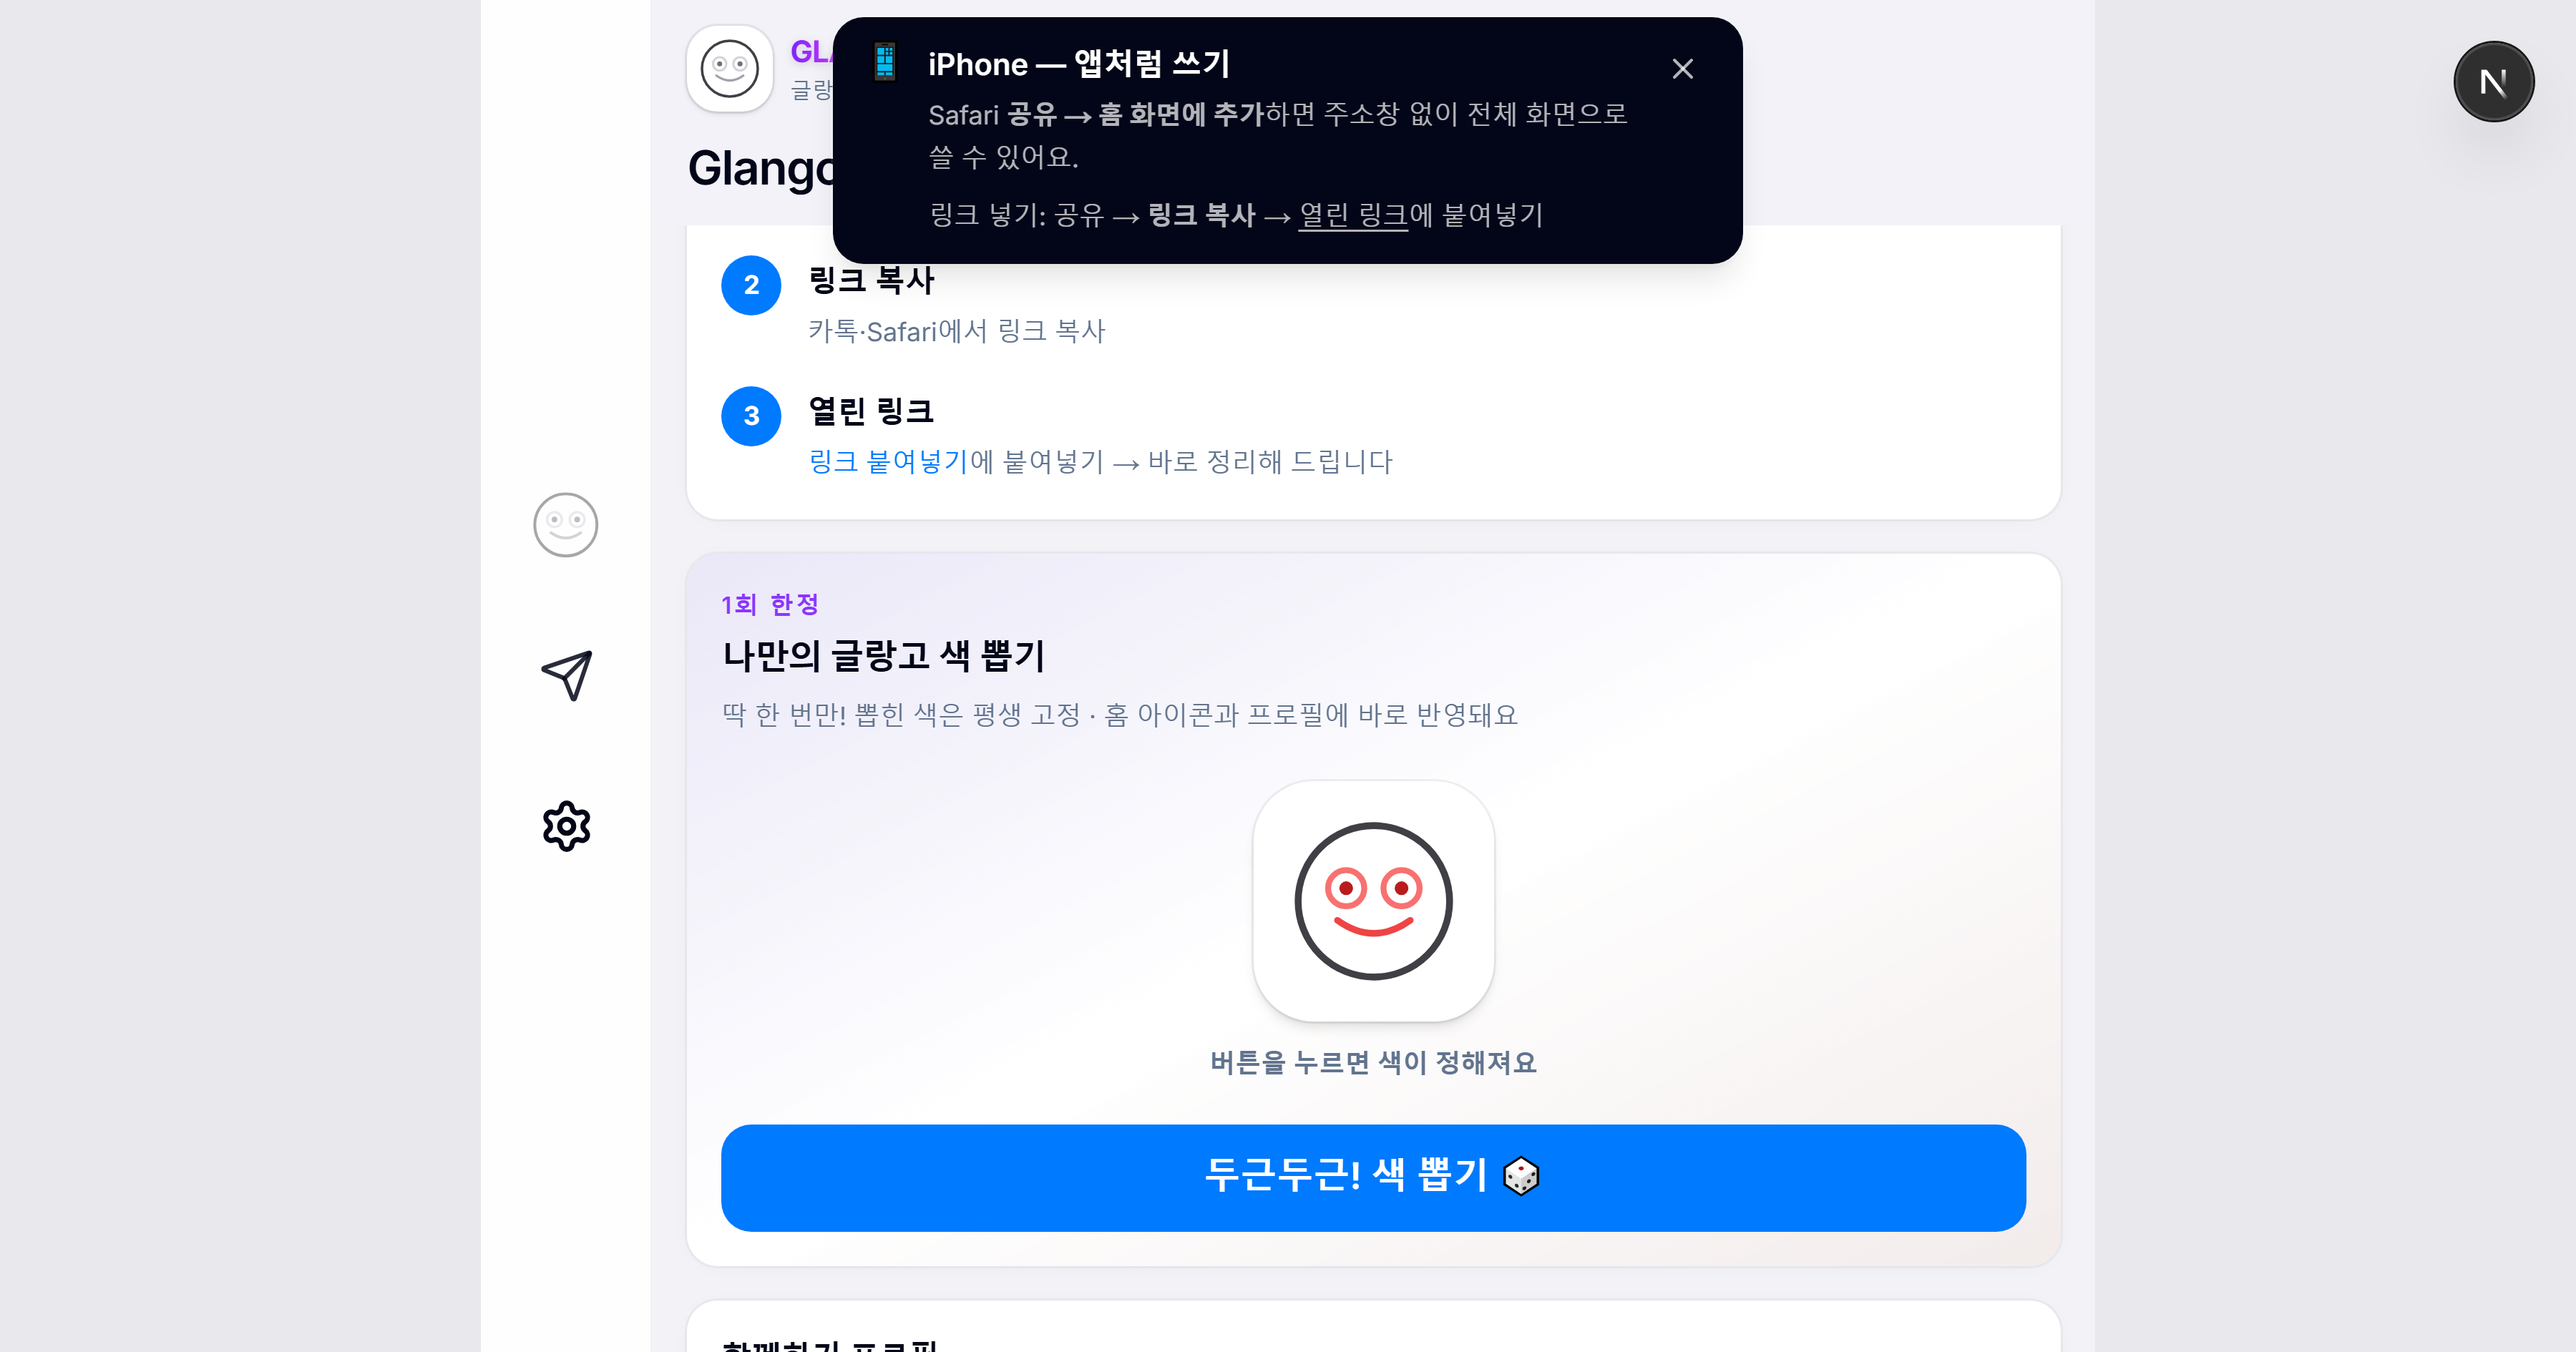
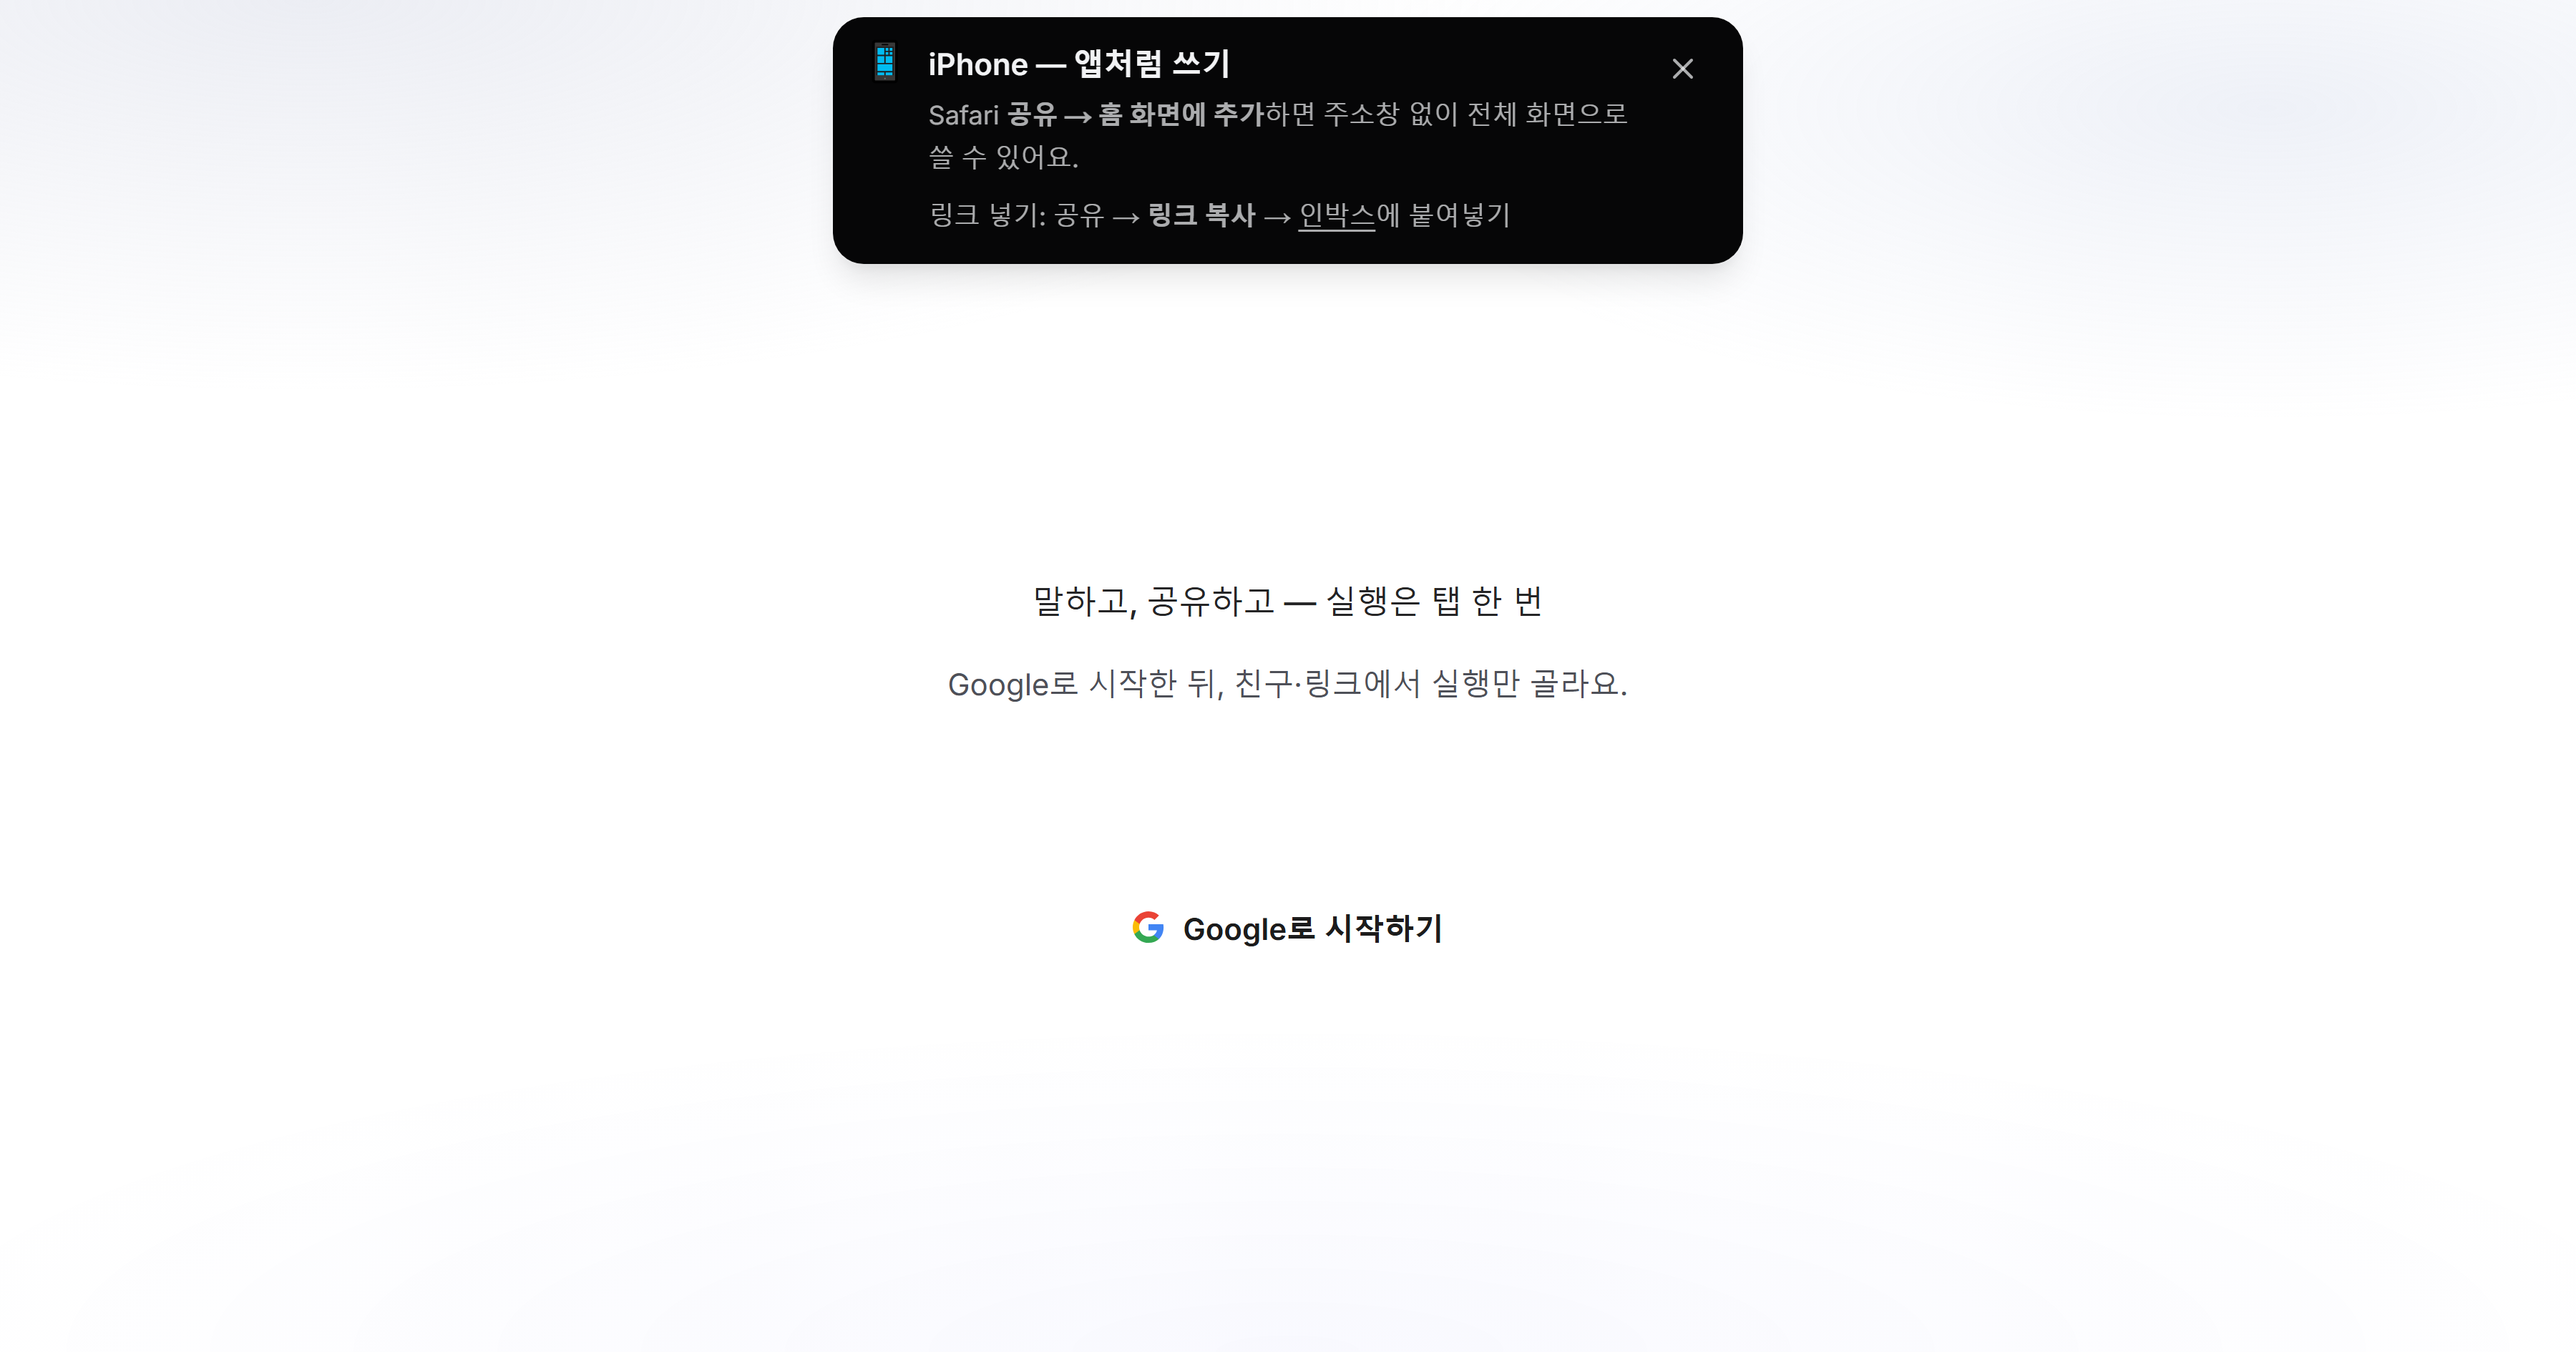
feat: Android Play Store v1 scaffold — share, signing, store assets
Wire ACTION_SEND to /share via AndroidShareIntentRouter, drop notification
listener from v1 manifest for Play review, add release keystore template,
peers store screenshot, and store:build:android helper.

diff --git a/scripts/test-android-share-intent-router.ts b/scripts/test-android-share-intent-router.ts
@@ -1,0 +1,49 @@
+#!/usr/bin/env npx tsx
+/** Unit tests for Android share URL building (mirrors AndroidShareIntentRouter). */
+
+import assert from "node:assert/strict";
+
+function encode(value: string): string {
+  return encodeURIComponent(value);
+}
+
+function buildShareUrl(
+  server: string,
+  url: string | null,
+  text: string | null,
+  title: string | null,
+): string {
+  const parts: string[] = [];
+  if (url) parts.push(`url=${encode(url)}`);
+  if (text) parts.push(`text=${encode(text)}`);
+  if (title) parts.push(`title=${encode(title)}`);
+  return `${server.replace(/\/$/, "")}/share?${parts.join("&")}`;
+}
+
+function extractUrl(text: string | null): string | null {
+  if (!text) return null;
+  const match = text.trim().match(/(https?:\/\/[^\s]+)/i);
+  return match?.[1] ?? null;
+}
+
+assert.equal(
+  buildShareUrl(
+    "https://rimvio.app",
+    "https://map.naver.com/p/search/강릉",
+    "강릉",
+    "지도",
+  ),
+  "https://rimvio.app/share?url="
+    + encodeURIComponent("https://map.naver.com/p/search/강릉")
+    + "&text="
+    + encodeURIComponent("강릉")
+    + "&title="
+    + encodeURIComponent("지도"),
+);
+
+assert.equal(
+  extractUrl("링크 https://youtube.com/watch?v=abc 여기"),
+  "https://youtube.com/watch?v=abc",
+);
+
+console.log("test-android-share-intent-router: ok");

diff --git a/scripts/mobile/store-launch-checks.ts b/scripts/mobile/store-launch-checks.ts
@@ -134,8 +134,13 @@ export function runAndroidStoreLaunchChecks(): StoreLaunchCheck[] {
   checks.push({
     id: "android:share-intent",
     ok: manifest.includes("android.intent.action.SEND"),
-    detail: "SEND share intent (v1.1 — optional for first submit)",
-    optional: true,
+    detail: "SEND share intent on MainActivity",
+  });
+
+  checks.push({
+    id: "android:no-notification-listener-v1",
+    ok: !manifest.includes("RimvioNotificationListenerService"),
+    detail: "NotificationListener excluded from Play v1 manifest",
   });
 
   return checks;

diff --git a/scripts/capture-store-screenshots.ts b/scripts/capture-store-screenshots.ts
@@ -9,7 +9,10 @@ import fs from "node:fs";
 import path from "node:path";
 import { chromium, devices } from "@playwright/test";
 
-const BASE = process.env.STORE_SHOT_BASE ?? "http://127.0.0.1:3001";
+const BASE =
+  process.env.STORE_SHOT_BASE?.trim() ||
+  process.env.NEXT_PUBLIC_APP_URL?.trim()?.replace(/\/$/, "") ||
+  "https://rimvio.app";
 const OUT_DIR = path.join(process.cwd(), "public", "store");
 
 async function ensureOutDir() {

diff --git a/android/app/src/main/java/com/rimvio/app/AndroidShareIntentRouter.java b/android/app/src/main/java/com/rimvio/app/AndroidShareIntentRouter.java
@@ -1,0 +1,111 @@
+package com.rimvio.app;
+
+import android.content.Intent;
+import android.text.TextUtils;
+import java.io.UnsupportedEncodingException;
+import java.net.URLEncoder;
+import java.util.regex.Matcher;
+import java.util.regex.Pattern;
+
+/** Routes Android ACTION_SEND → Rimvio /share web bridge (Capacitor WebView). */
+public final class AndroidShareIntentRouter {
+
+  private static final String DEFAULT_SERVER = "https://rimvio.app";
+  private static final Pattern URL_PATTERN =
+      Pattern.compile("(https?://[^\\s]+)", Pattern.CASE_INSENSITIVE);
+
+  private static volatile String pendingShareUrl;
+
+  private AndroidShareIntentRouter() {}
+
+  public static void captureIntent(Intent intent) {
+    if (intent == null) {
+      return;
+    }
+    String action = intent.getAction();
+    if (!Intent.ACTION_SEND.equals(action)) {
+      return;
+    }
+
+    String type = intent.getType();
+    if (type == null) {
+      return;
+    }
+
+    if (type.startsWith("text/")) {
+      String sharedText = intent.getStringExtra(Intent.EXTRA_TEXT);
+      String title = intent.getStringExtra(Intent.EXTRA_SUBJECT);
+      String url = extractUrl(sharedText);
+      pendingShareUrl = buildShareUrl(DEFAULT_SERVER, url, sharedText, title);
+      return;
+    }
+
+    if (type.startsWith("image/") || type.startsWith("video/")) {
+      pendingShareUrl = DEFAULT_SERVER.replaceAll("/$", "") + "/globe";
+    }
+  }
+
+  public static boolean flushPendingShare(com.getcapacitor.Bridge bridge, String serverUrl) {
+    String target = pendingShareUrl;
+    if (TextUtils.isEmpty(target) || bridge == null || bridge.getWebView() == null) {
+      return false;
+    }
+    pendingShareUrl = null;
+
+    String base = TextUtils.isEmpty(serverUrl) ? DEFAULT_SERVER : serverUrl.replaceAll("/$", "");
+    if (target.startsWith("http://") || target.startsWith("https://")) {
+      bridge.getWebView().loadUrl(target);
+      return true;
+    }
+    bridge.getWebView().loadUrl(base + target);
+    return true;
+  }
+
+  public static String resolveServerUrl(com.getcapacitor.Bridge bridge) {
+    if (bridge != null) {
+      String configured = bridge.getServerUrl();
+      if (!TextUtils.isEmpty(configured)) {
+        return configured.replaceAll("/$", "");
+      }
+    }
+    return DEFAULT_SERVER;
+  }
+
+  static String buildShareUrl(
+      String server, String url, String text, String title) {
+    StringBuilder query = new StringBuilder();
+    appendQuery(query, "url", url);
+    appendQuery(query, "text", text);
+    appendQuery(query, "title", title);
+    return server.replaceAll("/$", "") + "/share?" + query;
+  }
+
+  private static void appendQuery(StringBuilder query, String key, String value) {
+    if (TextUtils.isEmpty(value)) {
+      return;
+    }
+    if (query.length() > 0) {
+      query.append("&");
+    }
+    query.append(key).append("=").append(encode(value));
+  }
+
+  private static String extractUrl(String text) {
+    if (TextUtils.isEmpty(text)) {
+      return null;
+    }
+    Matcher matcher = URL_PATTERN.matcher(text.trim());
+    if (matcher.find()) {
+      return matcher.group(1);
+    }
+    return null;
+  }
+
+  private static String encode(String value) {
+    try {
+      return URLEncoder.encode(value, "UTF-8");
+    } catch (UnsupportedEncodingException error) {
+      return value;
+    }
+  }
+}

diff --git a/android/app/src/main/java/com/rimvio/app/MainActivity.java b/android/app/src/main/java/com/rimvio/app/MainActivity.java
@@ -1,12 +1,37 @@
 package com.rimvio.app;
 
+import android.content.Intent;
 import android.os.Bundle;
 import com.getcapacitor.BridgeActivity;
 
 public class MainActivity extends BridgeActivity {
+
   @Override
   public void onCreate(Bundle savedInstanceState) {
     registerPlugin(RimvioNativeBridgePlugin.class);
     super.onCreate(savedInstanceState);
+    AndroidShareIntentRouter.captureIntent(getIntent());
+  }
+
+  @Override
+  protected void onNewIntent(Intent intent) {
+    super.onNewIntent(intent);
+    setIntent(intent);
+    AndroidShareIntentRouter.captureIntent(intent);
+    flushPendingShareRoute();
+  }
+
+  @Override
+  public void onResume() {
+    super.onResume();
+    flushPendingShareRoute();
+  }
+
+  private void flushPendingShareRoute() {
+    if (getBridge() == null) {
+      return;
+    }
+    String server = AndroidShareIntentRouter.resolveServerUrl(getBridge());
+    AndroidShareIntentRouter.flushPendingShare(getBridge(), server);
   }
 }

diff --git a/docs/STORE_LAUNCH_ANDROID.md b/docs/STORE_LAUNCH_ANDROID.md
@@ -35,11 +35,20 @@ npm run mobile:android
 
 ## 2. 서명 키스토어 (최초 1회)
 
-Android Studio → **Build → Generate Signed App Bundle or APK**
+`android/keystore.properties.example` → `android/keystore.properties` (gitignored)
 
-1. **Create new keystore** — `.jks` 파일 생성
-2. **백업 필수** — 분실 시 업데이트 불가
-3. Output: **AAB** (Play는 AAB 필수)
+```properties
+storeFile=../rimvio-release.jks
+storePassword=...
+keyAlias=rimvio
+keyPassword=...
+```
+
+Android Studio → **Build → Generate Signed App Bundle or APK** — 또는:
+
+```powershell
+npm run store:build:android
+```
 
 예상 경로: `android/app/build/outputs/bundle/release/app-release.aab`
 
@@ -91,30 +100,22 @@ Play Console **Data safety** + **App content** 설문 정직하게 작성.
 |------|------|---------|
 | `INTERNET` | Vercel WebView | ✅ 필수 |
 | `READ_MEDIA_IMAGES/VIDEO` | 경험 맥락 사진 매칭 | ✅ opt-in 설명 |
-| `NotificationListenerService` | 알림 → 맥락 (실험) | ⚠ v1 제출 전 **끄거나 제거** 권장 |
+| `NotificationListenerService` | 알림 → 맥락 (실험) | ❌ v1 manifest에서 제외 |
 
 알림 리스너를 v1에 넣지 않으면 심사·설명 부담이 크게 줄어듭니다.
 
 ---
 
-## 6. 공유하기 (Share Target) — v1.1 뼈대
+## 6. 공유하기 (Share Target) — v1 ✅
 
-PWA `manifest.ts`의 `share_target`은 **웹 PWA 전용**.  
-Play 스토어 APK에서 **다른 앱 → Rimvio 공유**를 받으려면 `MainActivity`에 intent-filter 추가 필요.
+`MainActivity` intent-filter + `AndroidShareIntentRouter.java`:
 
-예시 (아직 미적용 — `android/STORE_SHARE_INTENT.example.xml` 참고):
+| MIME | 동작 |
+|------|------|
+| `text/plain` | `/share?url=…` → `/now` |
+| `image/*` · `video/*` | `/globe` (맥락 ingest) |
 
-```xml
-<intent-filter>
-  <action android:name="android.intent.action.SEND" />
-  <category android:name="android.intent.category.DEFAULT" />
-  <data android:mimeType="text/plain" />
-  <data android:mimeType="image/*" />
-  <data android:mimeType="video/*" />
-</intent-filter>
-```
-
-→ `/share` deep link 처리는 v1.1 slice.
+예시 스캐폴드: `android/STORE_SHARE_INTENT.example.xml` (참고용 — manifest에 반영됨)
 
 ---
 
